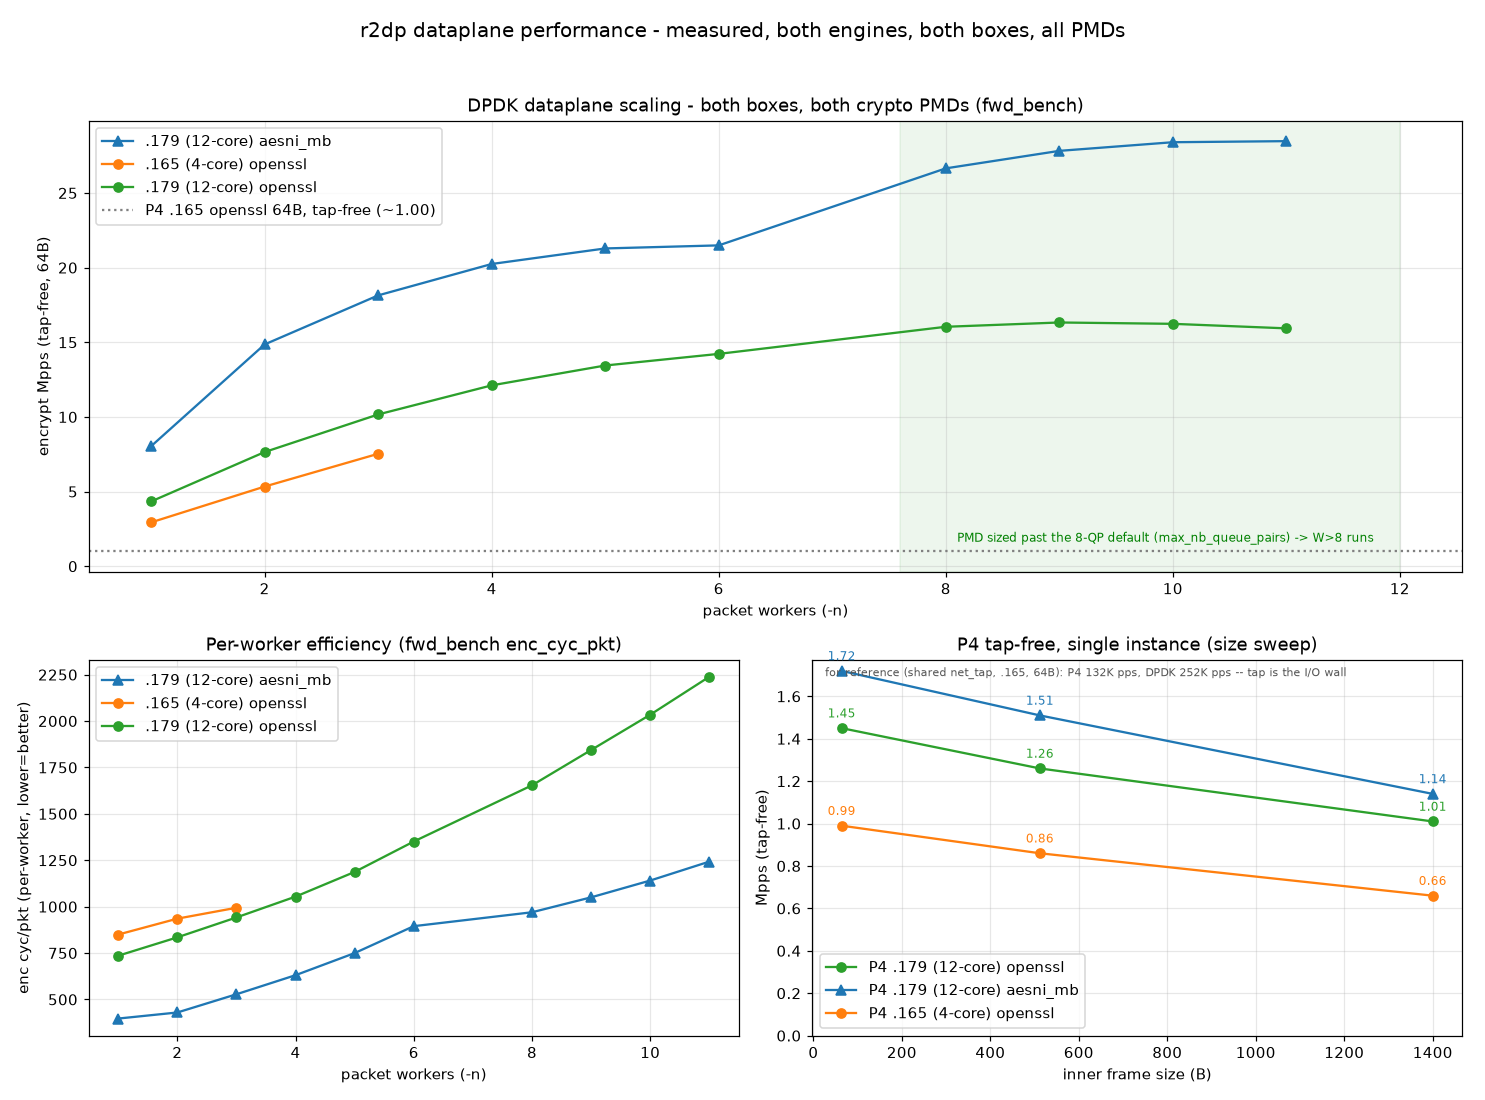
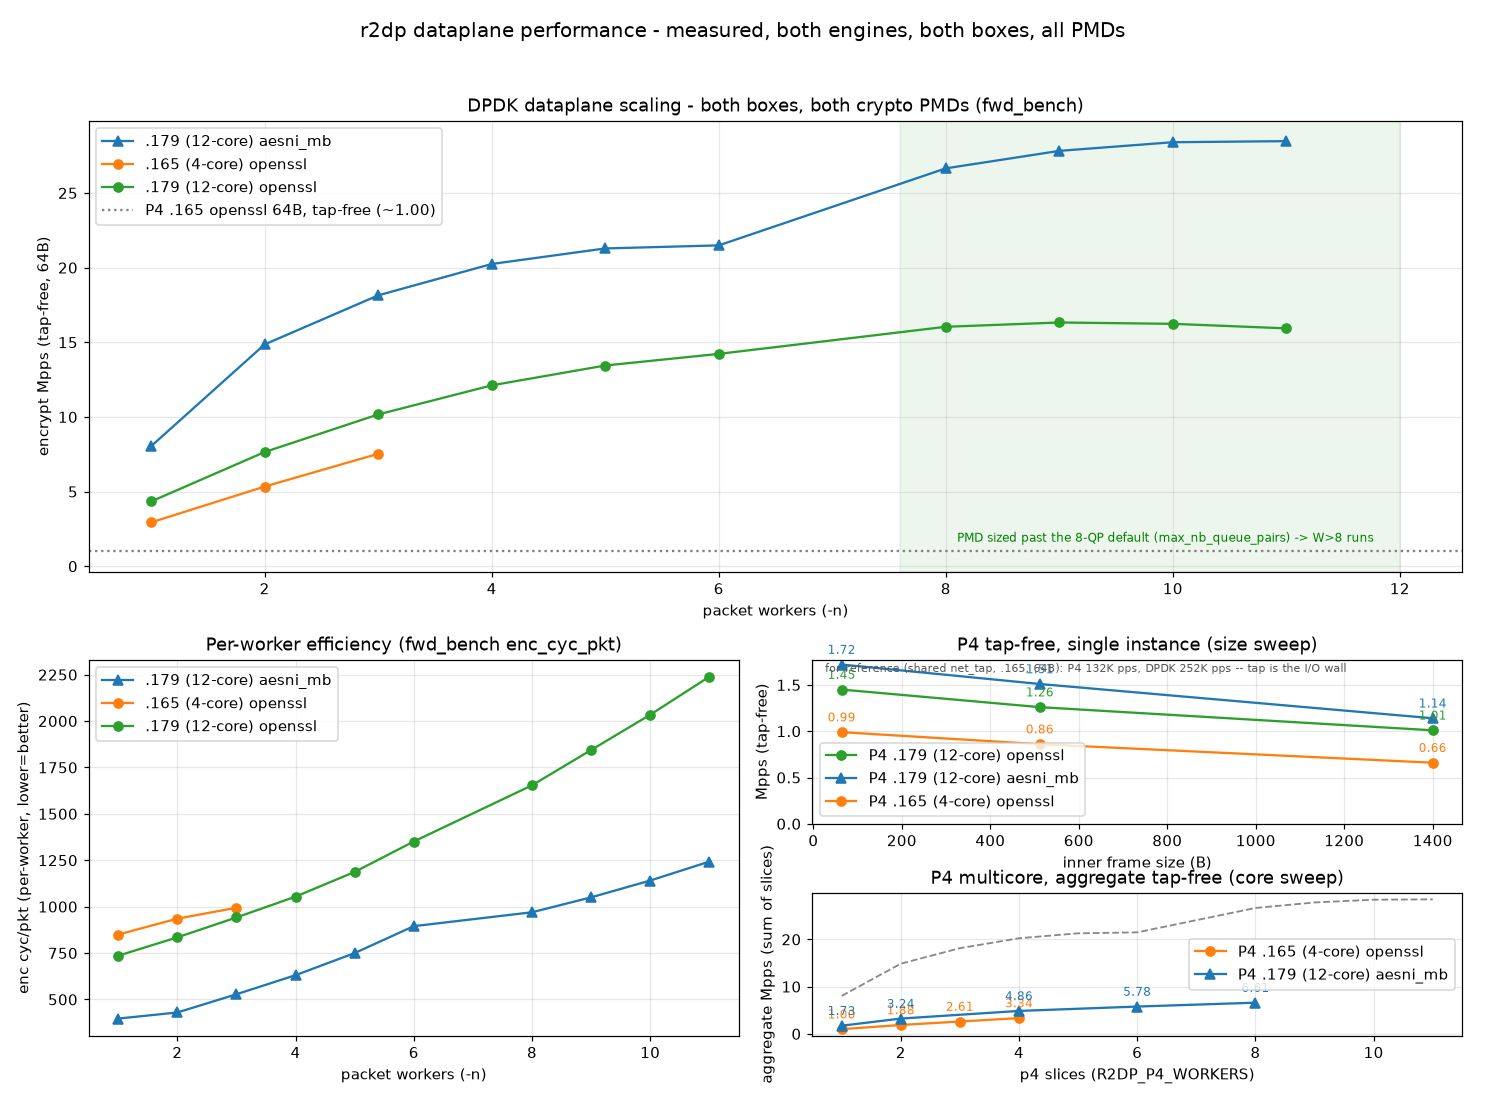
bench: P4 multicore core-sweep panel + harness
Add a P4 multicore aggregate tap-free core sweep to curves.png
(bottom-right lower panel) alongside the single-instance size sweep.
Aggregate Mpps = sum of per-slice pps (each slice is a pinned pipeline
replica with its own ipsec extern + isolated mbuf pool).

Measured 64B, best_cyc_pkt per slice:
  .165 (4-core) openssl: W1 0.998, W2 1.884, W3 2.613, W4 3.344 Mpps
  .179 (12-core) aesni:  W1 1.728, W2 3.240, W4 4.855, W6 5.781,
                        W8 6.605 Mpps
W1 restates the historical single-instance figure (1.72/.99), so the
regression is intact; aggregate scales sub-linearly as slices contend
for the shared cryptodev on each box's cores.

Add bench/p4_mc_bench.sh: the R2DP_P4_WORKERS tap-free sweep harness
(sudo, per-box spec/scratch paths, -m 1024 --no-huge so N pools don't
OOM).  curves.py gains a core_sweep reader and a nested right-hand
gridspec (size sweep + core sweep).

Changed region(s): [[0.4956, 0.5873, 0.9912, 0.9891], [0.8983, 0.9273, 0.9293, 0.9582]]

diff --git a/bench/curves.py b/bench/curves.py
@@ -157,7 +157,6 @@ def plot(data, out):
 
     fig = plt.figure(figsize=(13.5, 10))
     gs = fig.add_gridspec(2, 2, height_ratios=[1.2, 1])
-
     # (a) DPDK tap-free scaling (enc) per series
     ax = fig.add_subplot(gs[0, :])
     # Stable color keyed by (box, pmd); reused verbatim in the P4 sweep panel
@@ -207,7 +206,10 @@ def plot(data, out):
     ax.legend()
 
     # (c) P4 tap-free sweep: Mpps vs packet size, per box/PMD (single instance)
-    ax = fig.add_subplot(gs[1, 1])
+    gs_c = gs[1, 1].subgridspec(2, 1, height_ratios=[1.15, 1], hspace=0.45)
+
+    # (c1) P4 tap-free size sweep: Mpps vs packet size (single instance)
+    ax = fig.add_subplot(gs_c[0])
     p4sweep = p4.get("sweep", {})
     if p4sweep:
         styles4 = {"openssl": "o-", "aesni_mb": "^-"}
@@ -234,8 +236,13 @@ def plot(data, out):
                 f"for reference (shared net_tap, .165, 64B): P4 {p4_tap*1e3:.0f}K "
                 f"pps, DPDK {dpdk_tap*1e3:.0f}K pps -- tap is the I/O wall",
                 transform=ax.transAxes, va="top", fontsize=7, color="#555555")
+
+    # (c1) size sweep done (if/else above).  Now (c2) the core sweep on the
+    # lower half of the right-hand panel -- a separate if/else, NOT nested in
+    # the size-sweep block.
+    if p4sweep:
+        pass
     else:
-        # fall back to the tap-free-vs-tap bar wall
         dpdk_tapfree = {}
         for s in dpdk:
             if "1" in s["enc"]:
@@ -256,6 +263,39 @@ def plot(data, out):
         plt.setp(ax.get_xticklabels(), rotation=20, ha="right")
     ax.grid(True, alpha=0.3)
     ax.legend()
+
+    # (c2) P4 multicore core sweep: aggregate Mpps vs R2DP_P4_WORKERS
+    ax2 = fig.add_subplot(gs_c[1])
+    p4core = p4.get("core_sweep", {})
+    if p4core:
+        for box, pms in p4core.items():
+            for pmd, ws in pms.items():
+                xs = sorted(int(k) for k in ws)
+                ys = [ws[str(x)]["mpps"] for x in xs]
+                ax2.plot(xs, ys, styles4.get(pmd, "o-"), ms=6,
+                         label=f"P4 {box} {pmd}", color=color(box, pmd))
+                for xi, yi in zip(xs, ys):
+                    ax2.annotate(f"{yi:.2f}", (xi, yi),
+                                 textcoords="offset points", xytext=(0, 7),
+                                 ha="center", fontsize=8, color=color(box, pmd))
+        ax2.set_xlabel("p4 slices (R2DP_P4_WORKERS)")
+        ax2.set_ylabel("aggregate Mpps (sum of slices)")
+        ax2.set_title("P4 multicore, aggregate tap-free (core sweep)")
+        ax2.grid(True, alpha=0.3)
+        ax2.legend()
+        # resilient-per-core DPDK reference on .179 aesni for scale context
+        kase = next((s for s in dpdk if s.get("enc") and "179" in s["box"] and
+                     s["pmd"] == "aesni_mb"), None)
+        if kase:
+            dx = sorted(int(k) for k in kase["enc"])
+            ax2.plot(dx, [kase["enc"][str(x)] for x in dx], "--",
+                     color="#888888", lw=1.2,
+                     label="DPDK .179 aesni (resilient, for scale)")
+    else:
+        ax2.text(0.5, 0.5, "multicore sweep not collected; run the R2DP_P4_WORKERS bench",
+                 transform=ax2.transAxes, ha="center", va="center", fontsize=9,
+                 color="#888888")
+        ax2.set_title("P4 multicore core sweep (not yet collected)")
 
     fig.suptitle("r2dp dataplane performance - measured, both engines, both boxes, all PMDs",
                  fontsize=13)
